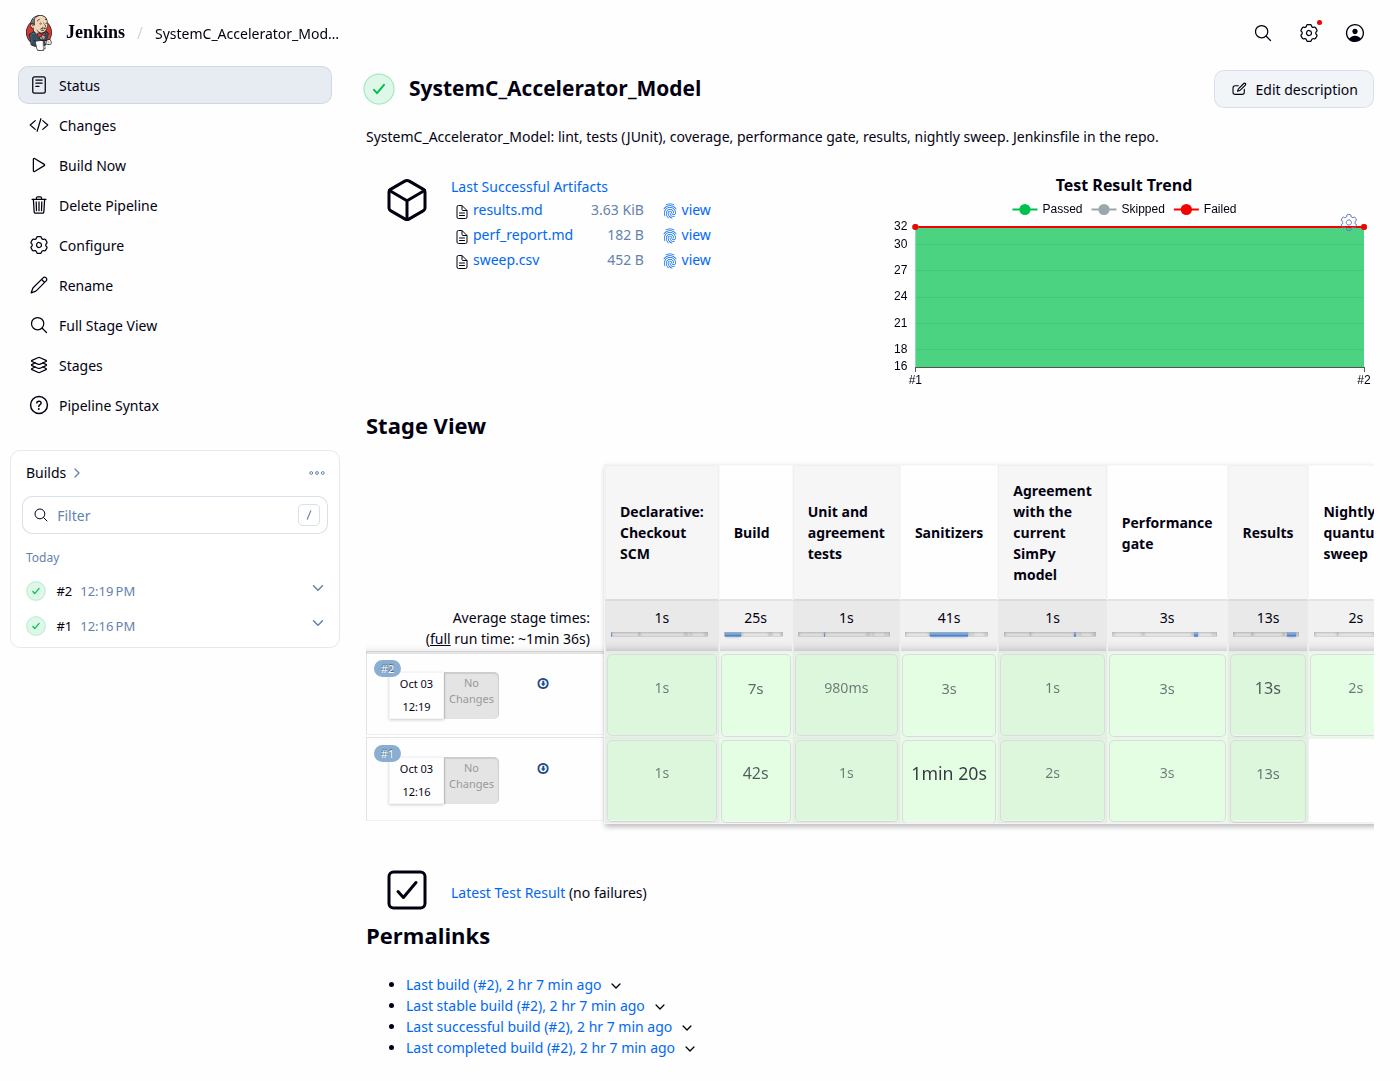
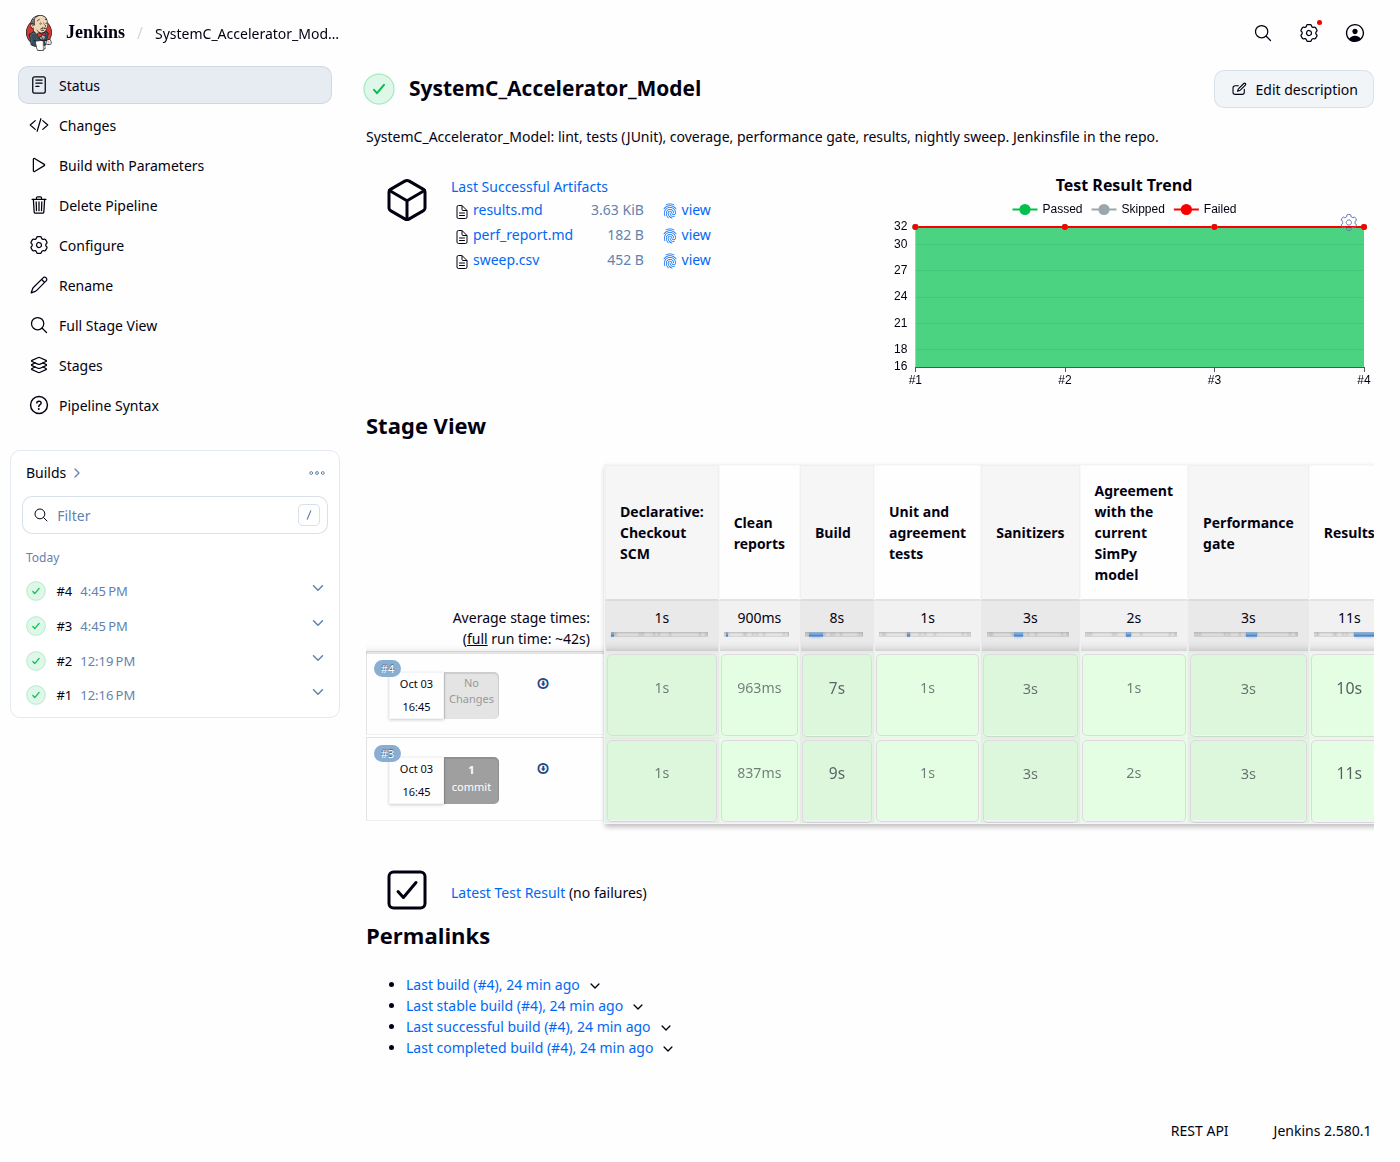
Rebuild: cost-model correction, sort-once applied, perf, Jenkins reruns
Numbers regenerated after the 2026-10-03 correction of Disaggregated_Inference_Sim's
cost model (and its Rust port); deck 10 records the errors as found and fixed, deck 11
re-measures everything (perf now available; the sort-once fix applied, and a wrong
prediction about the Rust port corrected), deck 07 shows the clean-reports fix and the
new Jenkins runs.

diff --git a/index.html b/index.html
@@ -1067,14 +1067,26 @@
     }
 }</code></pre>
     </div>
+    <div class="code-block">
+        <div class="code-header">Rust_DES_Kernel/Jenkinsfile: the first stage, added after build #4 <a class="src-link" href="https://github.com/BrendanJamesLynskey/Rust_DES_Kernel/blob/main/Jenkinsfile">source</a></div>
+        <pre><code><span class="cm">// The workspace is reused between builds (it keeps the virtualenv and build caches), so</span>
+<span class="cm">// delete the previous build's reports first. Without this a build that fails before its</span>
+<span class="cm">// tests run publishes the last build's JUnit results as its own (Rust_DES_Kernel #4 did).</span>
+<span class="kw">stage</span>(<span class="str">'Clean reports'</span>) {
+    <span class="kw">steps</span> {
+        <span class="kw">sh</span> <span class="str">'rm -f target/nextest/ci/junit.xml pytest-junit.xml coverage.xml perf_report.md sweep.csv'</span>
+    }
+}</code></pre>
+    </div>
     <ul>
         <li><strong><code>junit</code></strong> in <code>post { always { } }</code>, so failing tests are still recorded: the reports matter most on a red build.</li>
         <li><strong><code>recordCoverage</code></strong> (the Coverage plugin). Rust_DES_Kernel's first build failed here: cargo-llvm-cov lists each generic instantiation as its own method, and the Cobertura parser rejected the duplicates. <code>ignoreParsingErrors: true</code> was the fix.</li>
-        <li><strong>Delete old reports at the start of a build.</strong> Rust_DES_Kernel's build #4 failed before its Python tests ran, yet Jenkins recorded all 46 tests: the workspace is reused, and the post step found build #3's <code>pytest-junit.xml</code> (its suite is timestamped 13 hours earlier). A failed build that reports passing tests is worse than one that reports none. Remove the report files first, or clean the workspace.</li>
+        <li><strong>Delete old reports at the start of a build.</strong> Rust_DES_Kernel's build #4 failed before its Python tests ran, yet Jenkins recorded all 46 tests: the workspace is reused, and the post step found build #3's <code>pytest-junit.xml</code> (its suite is timestamped 13 hours earlier). A failed build that reports passing tests is worse than one that reports none. <strong>Fixed on 2026-10-03:</strong> all five Jenkinsfiles now start by deleting their report files (below). <code>cleanWs()</code> would also work, but it would throw away the cached virtualenv and build directories. The next failure, #7, reported its own 15 failed tests out of 47.</li>
+        <li><strong>A reused workspace can also hide stale dependencies.</strong> #7 and #8 failed because the workspace's virtualenv still held the Python reference simulator from GitHub at an older commit. pip treats an installed git dependency with an unchanged version number as satisfied. GitHub Actions starts from scratch and passed the same commit. Force-reinstalling that dependency on every build fixed it, and #9 and #10 passed. Cache the expensive parts of a workspace, not the parts under test.</li>
         <li><strong>Archive what the reports are made of</strong> (<code>results.md</code>, <code>perf_report.md</code>, <code>sweep.csv</code>), so a number in a report can be traced to the build that produced it.</li>
     </ul>
-    <img src="assets/build3_tests.png" alt="Jenkins test report of Rust_DES_Kernel build 3: 46 tests passing, 29 Rust and 17 Python" style="width: 100%; border-radius: 6px; border: 1px solid var(--border);">
-    <p class="src">Rust_DES_Kernel #3: 46 tests from two frameworks, one report.</p>
+    <img src="assets/build10_tests.png" alt="Jenkins test report of Rust_DES_Kernel build 10: 47 tests passing, 30 Rust and 17 Python" style="width: 100%; border-radius: 6px; border: 1px solid var(--border);">
+    <p class="src">Rust_DES_Kernel #10: 47 tests from two frameworks, one report.</p>
 </section>
 
 <section class="slide" id="slide-07">
@@ -1180,15 +1192,15 @@ would upload results.md with token ****
     </div>
     <script>
     (function () {
-        const RUNS = [["Job", "Build", "Result", "Duration", "NIGHTLY", "Tests (JUnit)"], ["Demo_library", "#1", "SUCCESS", "132 s", "-", "31"], ["Demo_matrix", "#1", "SUCCESS", "37 s", "-", "-"], ["Demo_scripted", "#1", "SUCCESS", "10 s", "-", "-"], ["Memory_System_Sim", "#1", "SUCCESS", "207 s", "(first build: none)", "31"], ["Memory_System_Sim", "#2", "SUCCESS", "206 s", "True", "31"], ["RTL_CoSim_NTT", "#1", "FAILURE", "42 s", "(first build: none)", "-"], ["RTL_CoSim_NTT", "#2", "FAILURE", "27 s", "False", "-"], ["RTL_CoSim_NTT", "#3", "FAILURE", "27 s", "False", "-"], ["RTL_CoSim_NTT", "#4", "SUCCESS", "348 s", "False", "32"], ["RTL_CoSim_NTT", "#5", "SUCCESS", "410 s", "True", "34"], ["Rust_DES_Kernel", "#1", "FAILURE", "215 s", "(first build: none)", "46"], ["Rust_DES_Kernel", "#2", "SUCCESS", "214 s", "False", "46"], ["Rust_DES_Kernel", "#3", "SUCCESS", "183 s", "True", "46"], ["Rust_DES_Kernel", "#4", "FAILURE", "58 s", "-", "46"], ["Rust_DES_Kernel", "#5", "SUCCESS", "174 s", "False", "46"], ["Rust_DES_Kernel", "#6", "SUCCESS", "184 s", "True", "46"], ["SystemC_Accelerator_Model", "#1", "SUCCESS", "151 s", "(first build: none)", "32"], ["SystemC_Accelerator_Model", "#2", "SUCCESS", "42 s", "True", "32"], ["Torch_Sim_Frontend", "#1", "SUCCESS", "385 s", "(first build: none)", "41"], ["Torch_Sim_Frontend", "#2", "SUCCESS", "304 s", "True", "41"]];  // from _simeng_build/snippets/RESULTS.md
+        const RUNS = [["Job", "Build", "Result", "Duration", "NIGHTLY", "Tests (JUnit)"], ["Demo_library", "#1", "SUCCESS", "132 s", "-", "31"], ["Demo_matrix", "#1", "SUCCESS", "37 s", "-", "-"], ["Demo_scripted", "#1", "SUCCESS", "10 s", "-", "-"], ["Memory_System_Sim", "#1", "SUCCESS", "207 s", "(first build: none)", "31"], ["Memory_System_Sim", "#2", "SUCCESS", "206 s", "True", "31"], ["Memory_System_Sim", "#3", "SUCCESS", "179 s", "-", "31"], ["Memory_System_Sim", "#4", "SUCCESS", "189 s", "True", "31"], ["RTL_CoSim_NTT", "#1", "FAILURE", "42 s", "(first build: none)", "-"], ["RTL_CoSim_NTT", "#2", "FAILURE", "27 s", "False", "-"], ["RTL_CoSim_NTT", "#3", "FAILURE", "27 s", "False", "-"], ["RTL_CoSim_NTT", "#4", "SUCCESS", "348 s", "False", "32"], ["RTL_CoSim_NTT", "#5", "SUCCESS", "410 s", "True", "34"], ["RTL_CoSim_NTT", "#6", "SUCCESS", "296 s", "-", "32"], ["RTL_CoSim_NTT", "#7", "SUCCESS", "445 s", "True", "34"], ["Rust_DES_Kernel", "#1", "FAILURE", "215 s", "(first build: none)", "46"], ["Rust_DES_Kernel", "#2", "SUCCESS", "214 s", "False", "46"], ["Rust_DES_Kernel", "#3", "SUCCESS", "183 s", "True", "46"], ["Rust_DES_Kernel", "#4", "FAILURE", "58 s", "-", "46"], ["Rust_DES_Kernel", "#5", "SUCCESS", "174 s", "False", "46"], ["Rust_DES_Kernel", "#6", "SUCCESS", "184 s", "True", "46"], ["Rust_DES_Kernel", "#7", "FAILURE", "202 s", "-", "47"], ["Rust_DES_Kernel", "#8", "FAILURE", "181 s", "True", "47"], ["Rust_DES_Kernel", "#9", "SUCCESS", "205 s", "False", "47"], ["Rust_DES_Kernel", "#10", "SUCCESS", "192 s", "True", "47"], ["SystemC_Accelerator_Model", "#1", "SUCCESS", "151 s", "(first build: none)", "32"], ["SystemC_Accelerator_Model", "#2", "SUCCESS", "42 s", "True", "32"], ["SystemC_Accelerator_Model", "#3", "SUCCESS", "44 s", "-", "32"], ["SystemC_Accelerator_Model", "#4", "SUCCESS", "40 s", "True", "32"], ["Torch_Sim_Frontend", "#1", "SUCCESS", "385 s", "(first build: none)", "41"], ["Torch_Sim_Frontend", "#2", "SUCCESS", "304 s", "True", "41"], ["Torch_Sim_Frontend", "#3", "FAILURE", "138 s", "-", "41"], ["Torch_Sim_Frontend", "#4", "FAILURE", "106 s", "True", "41"], ["Torch_Sim_Frontend", "#5", "SUCCESS", "290 s", "False", "41"], ["Torch_Sim_Frontend", "#6", "SUCCESS", "307 s", "True", "41"]];  // from _simeng_build/snippets/RESULTS.md
         const $ = id => document.getElementById(id);
         const runs = RUNS.slice(1).map(r => ({ job: r[0], n: r[1], result: r[2], s: parseFloat(r[3]), nightly: r[4], tests: r[5] }));
         const NOTE = {
-            'Rust_DES_Kernel': 'Build #1 failed at Coverage: the Coverage plugin rejected cargo-llvm-cov\'s duplicate method entries (one per generic instantiation); ignoreParsingErrors: true fixed it, and #2 and #3 (nightly) passed. Its Jenkinsfile then got the PATH fix from slide 03: it had only found cargo because the controller\'s own PATH included it. Build #4 failed on that change, because the helper variable was named CARGO, and cargo and maturin read $CARGO as the path of the cargo binary. Renamed WITH_CARGO, #5 and #6 (nightly) passed. Note #4\'s 46 tests: a stale report from #3, left in the workspace (slide 06).',
-            'RTL_CoSim_NTT': 'Builds #1 to #3 failed in Lint, before any test ran, for three Jenkins reasons fixed one at a time: params are null on a first build; a PATH set in environment {} did not reach sh; env.HOME is null in Groovy. The tools are now resolved in each step\'s own shell. #4 and #5 (nightly, more tests) passed.',
-            'Memory_System_Sim': 'Both builds passed: the fixes learned on RTL_CoSim_NTT were applied before its first run.',
-            'SystemC_Accelerator_Model': 'Both builds passed, on the same pre-emptive fixes. The second is quicker because the workspace keeps its CMake build directories (Release and ASan) between builds, and with no source change nothing needed recompiling.',
-            'Torch_Sim_Frontend': 'Both builds passed. The first is longer: it installs CPU PyTorch into the workspace venv, which later builds reuse.',
+            'Rust_DES_Kernel': 'Build #1 failed at Coverage: the Coverage plugin rejected cargo-llvm-cov\'s duplicate method entries (one per generic instantiation); ignoreParsingErrors: true fixed it, and #2 and #3 (nightly) passed. Its Jenkinsfile then got the PATH fix from slide 03: it had only found cargo because the controller\'s own PATH included it. Build #4 failed on that change, because the helper variable was named CARGO, and cargo and maturin read $CARGO as the path of the cargo binary. Renamed WITH_CARGO, #5 and #6 (nightly) passed. Note #4\'s 46 tests: a stale report from #3, left in the workspace (slide 06). After the 2026-10-03 cost-model correction every Jenkinsfile gained a first stage that deletes old reports: #7 and #8 failed and reported their own 15 failures, because the workspace venv still held the pre-correction Python reference; with that dependency reinstalled each build, #9 and #10 (nightly) passed with 47 tests.',
+            'RTL_CoSim_NTT': 'Builds #1 to #3 failed in Lint, before any test ran, for three Jenkins reasons fixed one at a time: params are null on a first build; a PATH set in environment {} did not reach sh; env.HOME is null in Groovy. The tools are now resolved in each step\'s own shell. #4 and #5 (nightly, more tests) passed; #6 and #7 (nightly) reran it with the new clean-reports stage.',
+            'Memory_System_Sim': 'Both builds passed: the fixes learned on RTL_CoSim_NTT were applied before its first run. #3 and #4 (nightly) reran it with the new clean-reports stage.',
+            'SystemC_Accelerator_Model': 'Both builds passed, on the same pre-emptive fixes. The second is quicker because the workspace keeps its CMake build directories (Release and ASan) between builds, and with no source change nothing needed recompiling. #3 and #4 (nightly) reran it with the new clean-reports stage.',
+            'Torch_Sim_Frontend': 'Both builds passed. The first is longer: it installs CPU PyTorch into the workspace venv, which later builds reuse. That reuse bit later: #3 and #4 failed one test because the venv still held the pre-correction Disaggregated_Inference_Sim (slide 06); reinstalling that dependency each build, #5 and #6 (nightly) passed.',
             'Demo_matrix': 'Five matrix cells in parallel branches (slide 04).',
             'Demo_scripted': 'Passed, including a stage that fails on purpose and is caught (slide 02).',
             'Demo_library': 'The shared-library step ran Memory_System_Sim\'s tests and gate, then the credential demo (slides 05 and 09).',
